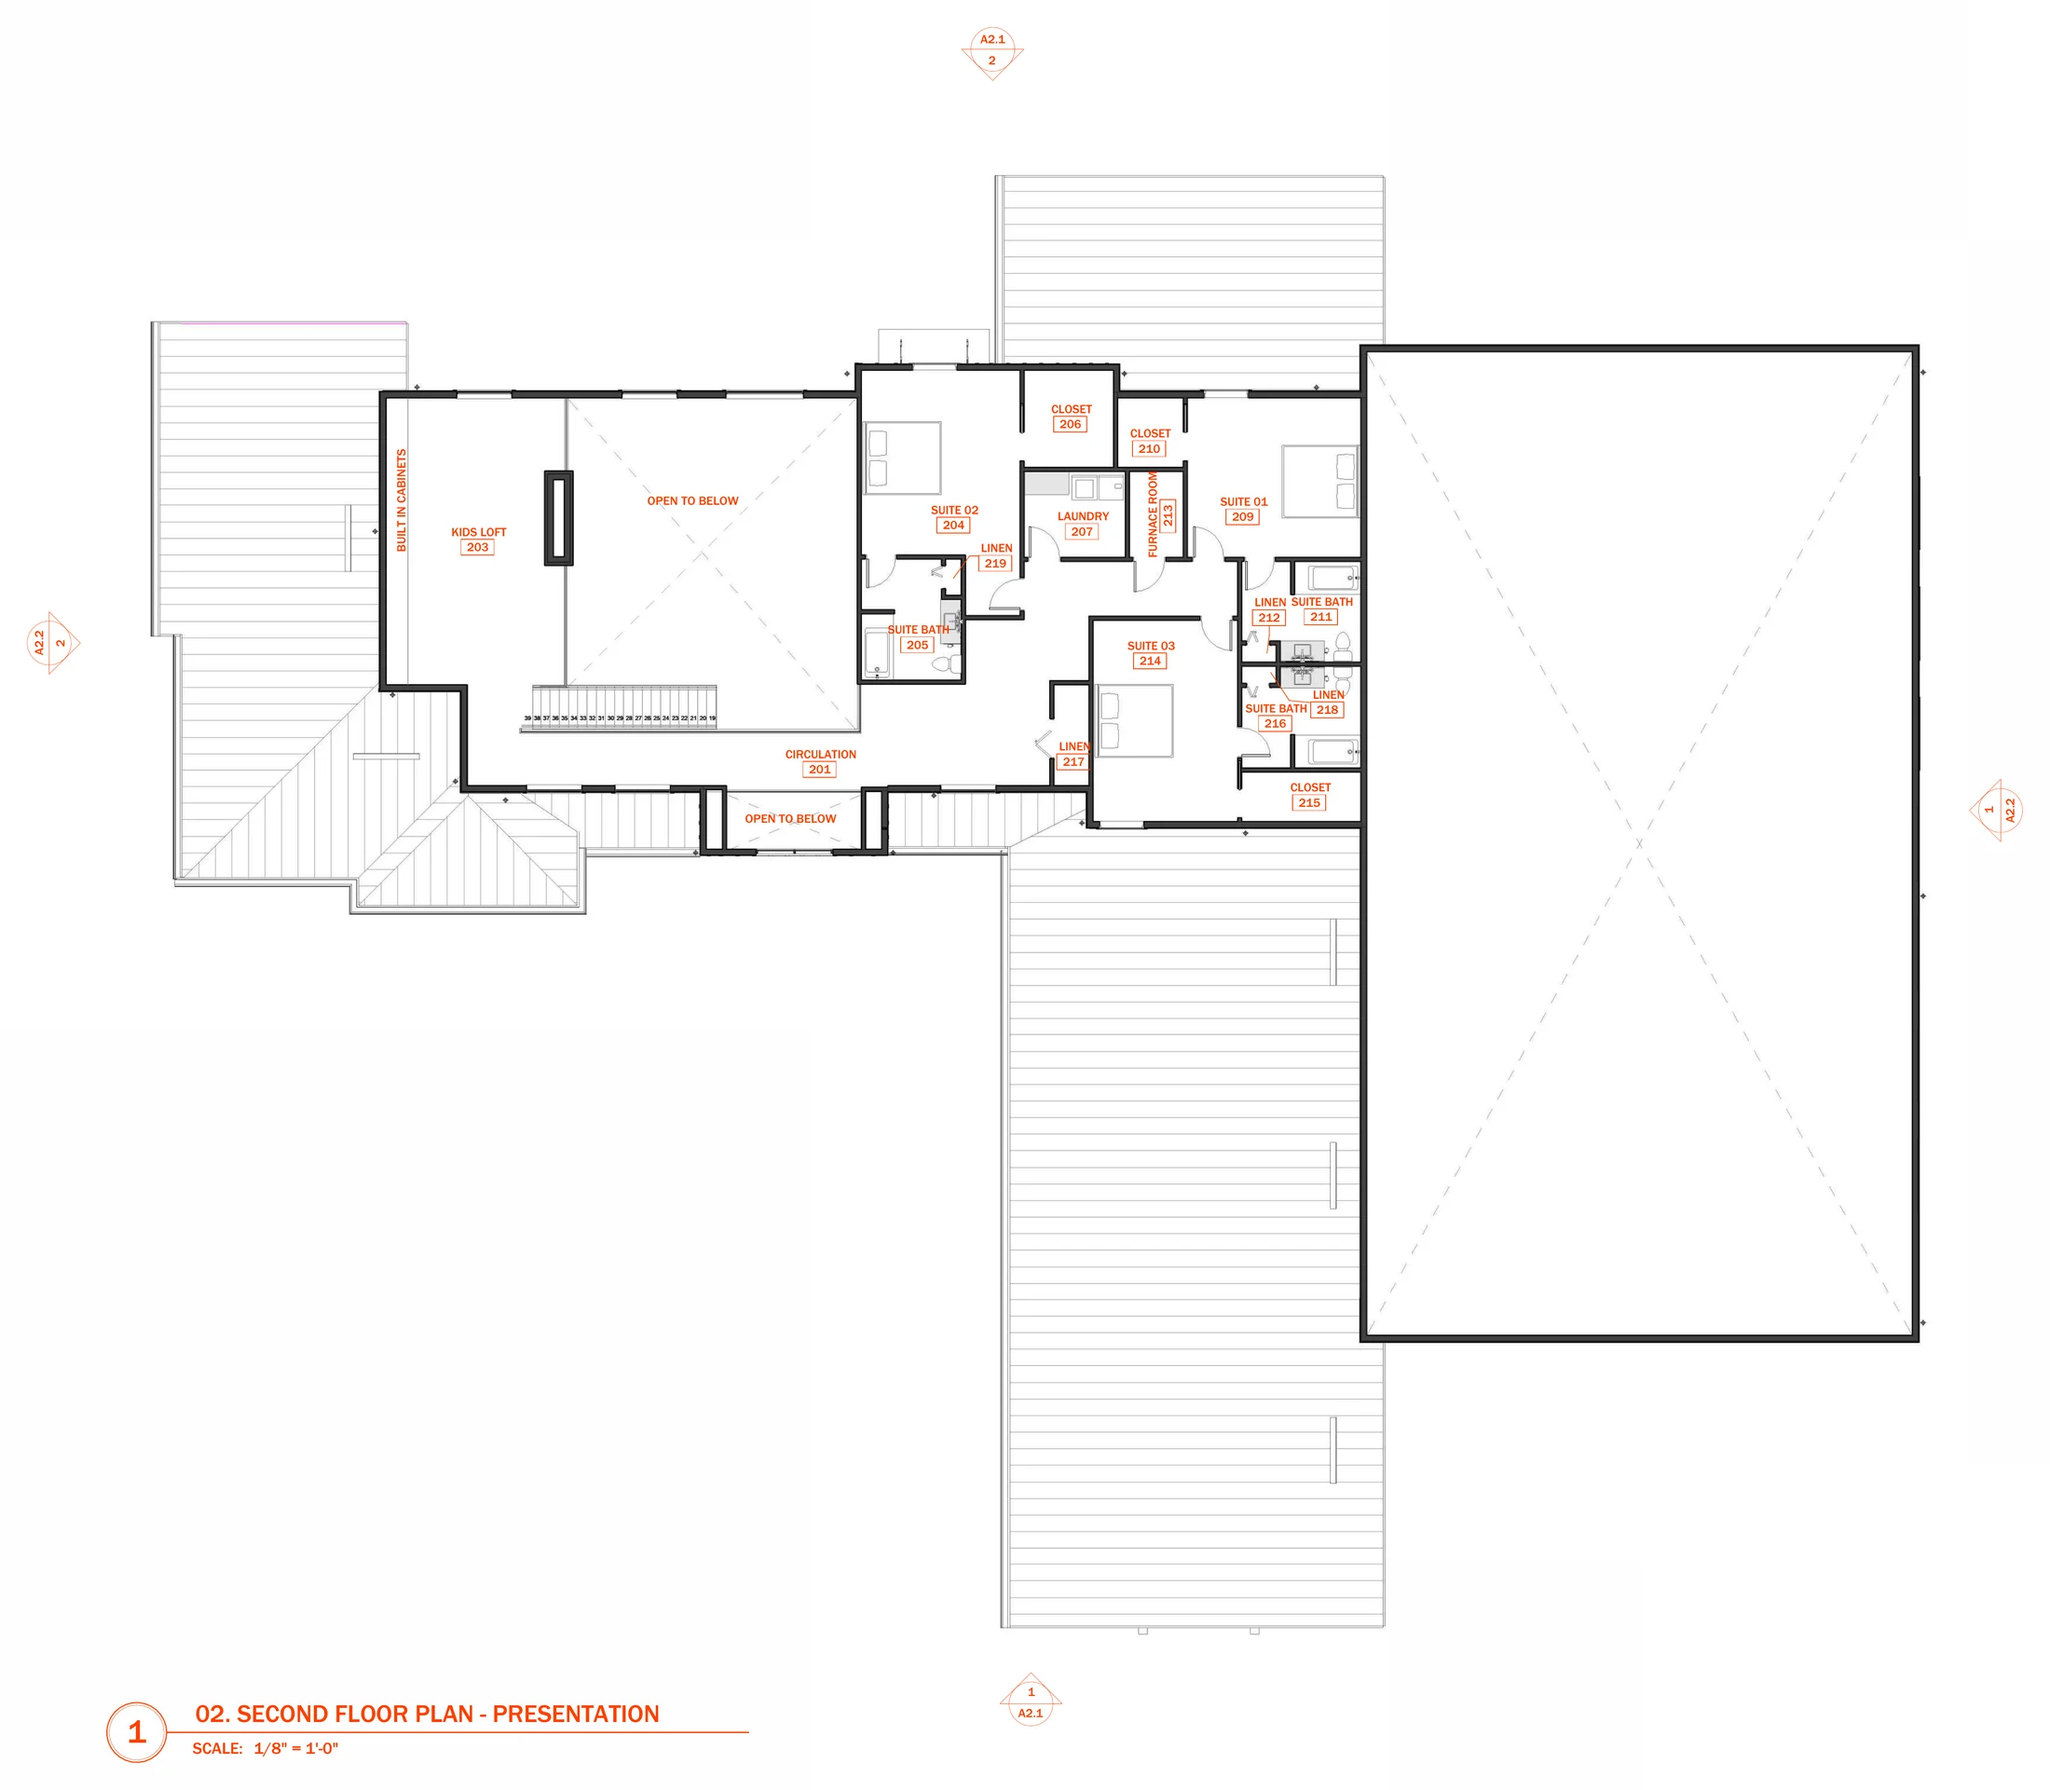
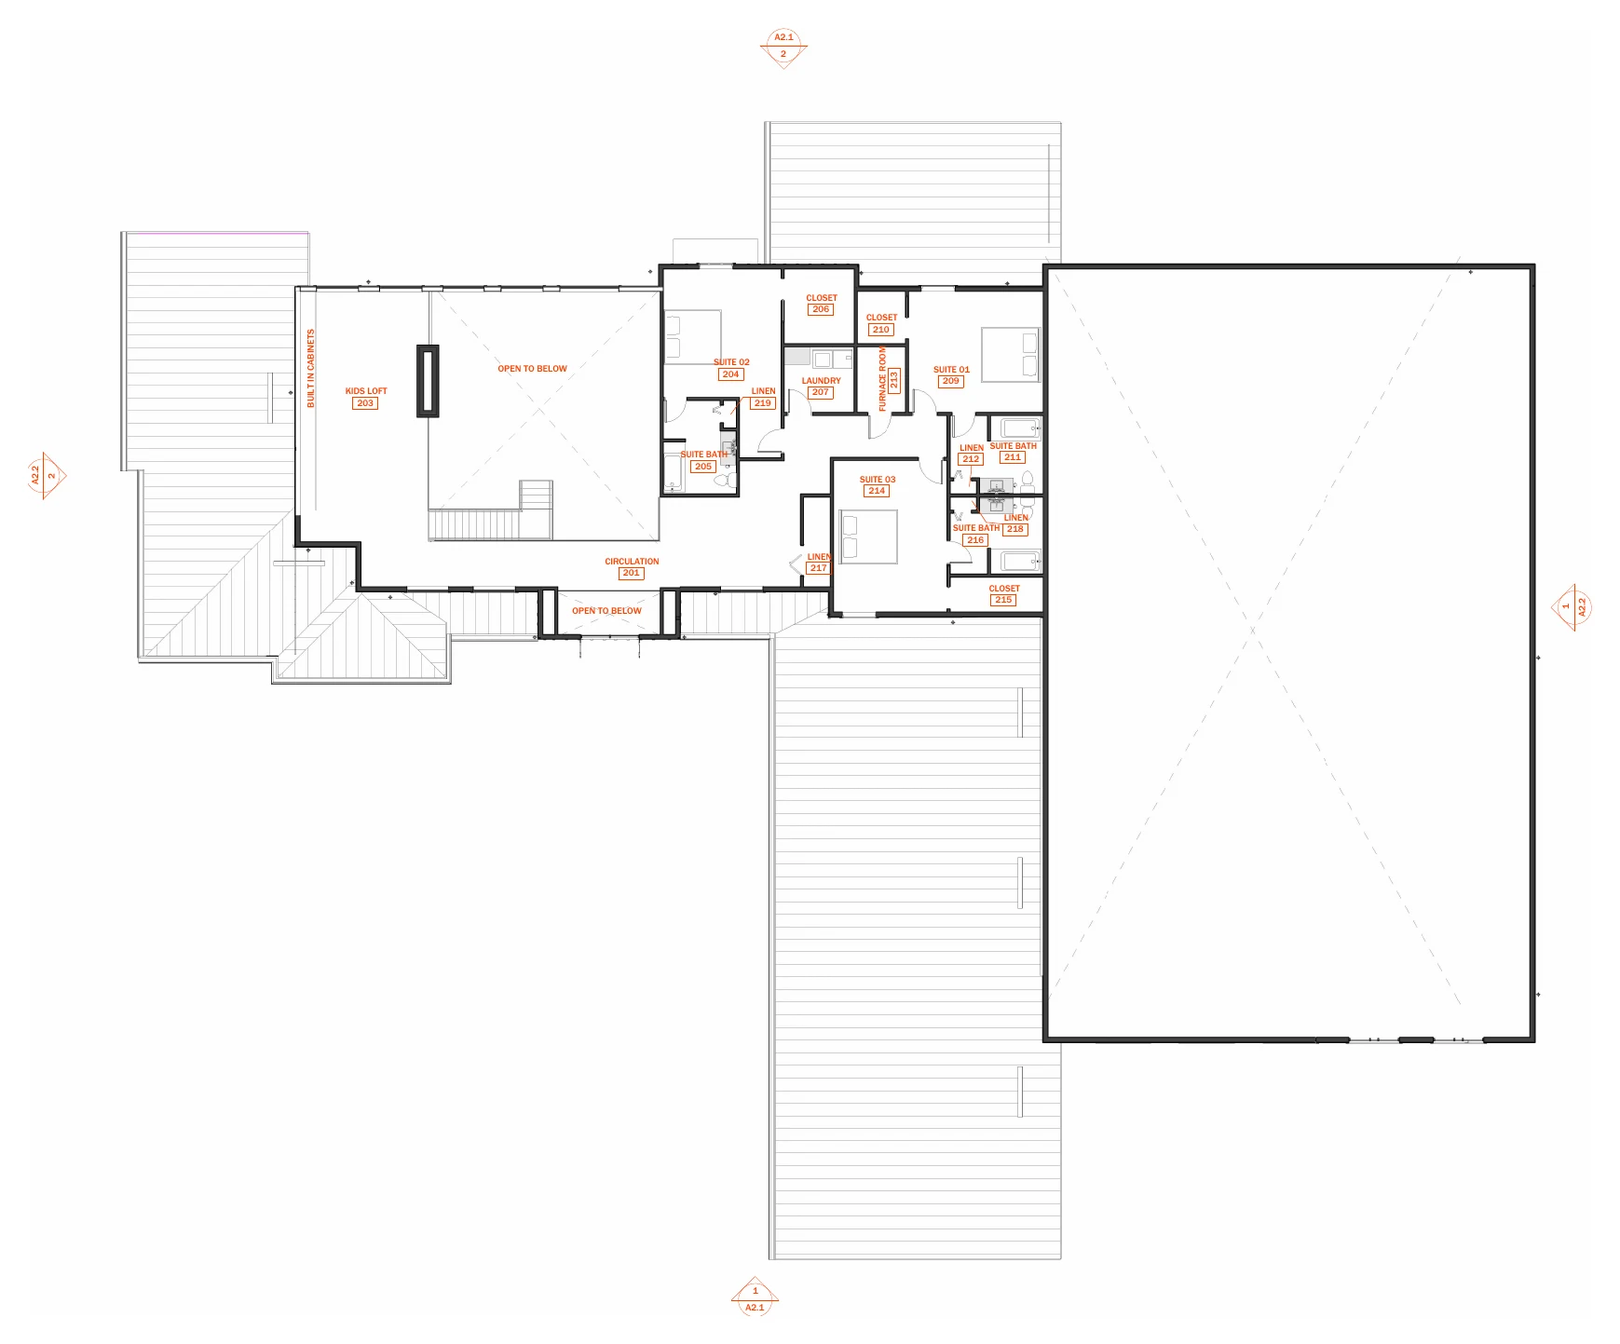
The View: use the new presentation floor plans; hand sketch section ready
Claude-Session: https://claude.ai/code/session_01Y6YTpwHS9Kf7SnrsbfitZp

diff --git a/site/src/content.config.ts b/site/src/content.config.ts
@@ -45,6 +45,7 @@ const projects = defineCollection({
         })
         .optional(),
       visualizations: z.array(z.object({ image: image(), alt: z.string(), caption: z.string().optional() })).optional(), // conceptual interior images, shown with an AI-assisted label
+      sketches: z.array(z.object({ image: image(), alt: z.string(), caption: z.string().optional() })).optional(), // original hand sketches
       sheets: z.array(z.object({ image: image(), alt: z.string(), caption: z.string() })).optional(), // selected drawing sheets, cropped to leave out the title block
       documentsTitle: z.string().optional(), // overrides the heading of the documents section
       documentsIntro: z.string().optional(),

diff --git a/site/src/content/projects/pt/ohio-residence.md b/site/src/content/projects/pt/ohio-residence.md
@@ -1,6 +1,6 @@
 ---
 title: The View
-metaDescription: "The View: uma residência de três níveis em Ohio, projetada em torno de como a família vive e recebe. Conceito, plantas e desenhos, com interiores conceituais."
+metaDescription: 'The View: uma residência de três níveis em Ohio, projetada em torno de como a família vive e recebe. Conceito, plantas e desenhos, com interiores conceituais.'
 number: MDS-26-01
 order: 1
 type: residential
